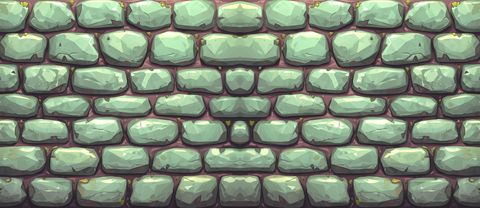
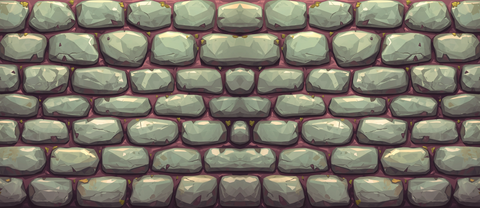
渔港Demo:夕阳定调+密集港镇楼群填天(基本无天空)+前景海结构+分层整图管线定论
- 弃用瓦片拼装管线,回归空城式分层整图(远/中/近整条+地标单件),文档/提示词包同步
- Demo:夕阳配色(落日橙/暮紫/藏青/暖沙棕),楼群剪影两排填满上半屏,楼缝漏霞+暮色亮窗
- 前景海:码头架水上(栈桥木桩/石墩插水),屏底整条海+摇晃渔船,缆桩剪影层撤销
- 石砖瓦片暖暮色版实铺防波堤(过渡用,正式素材走整图)

diff --git a/docs/prototypes/chapter3-port/port-demo.html b/docs/prototypes/chapter3-port/port-demo.html
@@ -7,7 +7,7 @@
 <style>
   html,body{margin:0;padding:0;background:#1a1626;height:100%;overflow:hidden;touch-action:none}
   #wrap{display:flex;align-items:center;justify-content:center;height:100%}
-  canvas{background:#79c8f0;max-height:100vh;max-width:100vw}
+  canvas{background:#2a2440;max-height:100vh;max-width:100vw}
   #tip{position:fixed;left:10px;top:8px;color:#9bb;font:12px/1.6 monospace;pointer-events:none;white-space:pre}
 </style>
 </head>
@@ -319,29 +319,43 @@ function draw(){
   g.save();
   if(shake>0)g.translate((Math.random()-0.5)*shake,(Math.random()-0.5)*shake);
   const sky=g.createLinearGradient(0,0,0,H);
-  sky.addColorStop(0,'#54b4ea');sky.addColorStop(0.5,'#8fd2f4');sky.addColorStop(0.78,'#cceefb');sky.addColorStop(1,'#8fd0ee');
+  sky.addColorStop(0,'#3b3454');sky.addColorStop(0.36,'#7a5a70');sky.addColorStop(0.52,'#e0956a');sky.addColorStop(1,'#9a5e52');
   g.fillStyle=sky;g.fillRect(0,0,W,H);
-  g.fillStyle='rgba(255,255,255,0.92)';for(const [cx3,cy3,r3] of [[W*0.2,H*0.24,54],[W*0.28,H*0.26,40],[W*0.7,H*0.34,60],[W*0.62,H*0.37,44]]){g.beginPath();g.arc(cx3-cam*0.04%W,cy3,r3,0,7);g.fill();}
-  g.fillStyle='#3f8fc0';g.fillRect(0,H*0.60,W,H*0.03);
+  g.fillStyle='rgba(255,190,140,0.5)';g.beginPath();g.arc(W*0.38,H*0.10,80,0,7);g.fill();g.fillStyle='rgba(255,214,150,0.85)';g.beginPath();g.arc(W*0.38,H*0.10,34,0,7);g.fill();
+  g.fillStyle='#5a4560';g.fillRect(0,H*0.50,W,H*0.03);
   // ── 远景层(0.1x):远岛+远灯塔剪影,颜色最淡(空气透视) ──
   {
     const k=cam*0.1;
-    g.fillStyle='rgba(150,190,220,0.55)';
-    for(let i=0;i<4;i++){const ix=((i*640-k)%(W+700))-200;
-      g.beginPath();g.moveTo(ix,H*0.60);g.quadraticCurveTo(ix+90,H*0.545,ix+200,H*0.60);g.fill();}
-    g.fillStyle='rgba(150,190,220,0.6)';
-    const lx=((900-k)%(W+700))-200;
-    g.fillRect(lx,H*0.53,14,H*0.07);g.fillRect(lx-6,H*0.53,26,6);
+    g.fillStyle='rgba(112,84,126,0.95)';
+    for(let i=0;i<8;i++){
+      const ix=((i*230-k)%(W+460))-230;
+      const ht=H*(0.08+((i*53)%5)*0.055);
+      g.fillRect(ix,ht,210,H*0.60-ht);
+      g.beginPath();g.moveTo(ix-10,ht);g.lineTo(ix+105,ht-H*0.045);g.lineTo(ix+220,ht);g.fill();
+    }
+    // 塔吊/水塔冒头(戳到屏顶)
+    for(let i=0;i<3;i++){const tx=((i*560+130-k)%(W+460))-230;
+      g.fillRect(tx,H*0.03,10,H*0.2);g.fillRect(tx-40,H*0.055,90,7);g.fillRect(tx+44,H*0.03,4,H*0.06);}
   }
   // ── 中景层(0.28x):连排屋顶+桅杆,稍深 ──
   {
     const k=cam*0.28;
-    g.fillStyle='rgba(90,130,170,0.8)';
-    for(let i=0;i<10;i++){const ix=((i*300-k)%(W+500))-200;
-      g.beginPath();g.moveTo(ix,H*0.615);g.lineTo(ix+60,H*0.575);g.lineTo(ix+120,H*0.615);g.fill();
-      g.fillRect(ix+16,H*0.615,88,H*0.02);}
-    g.fillStyle='rgba(66,100,140,0.9)';
-    for(let i=0;i<5;i++){const mx=((i*430-k*1.1)%(W+500))-160;g.fillRect(mx,H*0.52,5,H*0.11);g.fillRect(mx-18,H*0.555,42,4);}
+    for(let i=0;i<7;i++){
+      const ix=((i*300-k)%(W+600))-300;
+      const ht=H*(0.18+((i*71)%4)*0.065);
+      g.fillStyle='rgba(74,56,92,0.98)';
+      g.fillRect(ix,ht,250,H*0.63-ht);
+      g.beginPath();g.moveTo(ix-12,ht);g.lineTo(ix+125,ht-H*0.05);g.lineTo(ix+262,ht);g.fill();
+      // 暮色亮窗(按行列定,不随视差闪)
+      g.fillStyle='rgba(255,190,110,0.8)';
+      for(let r2=0;r2<5;r2++)for(let c2=0;c2<4;c2++){
+        if((i*7+r2*3+c2)%3)continue;
+        const wy2=ht+H*0.045+r2*H*0.075, wx2=ix+34+c2*58;
+        if(wy2<H*0.58)g.fillRect(wx2,wy2,15,20);
+      }
+    }
+    g.fillStyle='rgba(62,48,84,0.95)';
+    for(let i=0;i<5;i++){const mx=((i*430-k*1.1)%(W+500))-160;g.fillRect(mx,H*0.26,5,H*0.16);g.fillRect(mx-18,H*0.30,42,4);}
   }
   // 海鸥(中景,自己飞)
   {
@@ -355,14 +369,14 @@ function draw(){
   // ── 近背层(0.55x):矮栅栏+挂着的渔网,深色 ──
   {
     const k=cam*0.55;
-    g.strokeStyle='rgba(70,84,110,0.9)';g.lineWidth=5;
+    g.strokeStyle='rgba(48,38,66,0.9)';g.lineWidth=5;
     for(let i=0;i<14;i++){const ix=((i*220-k)%(W+400))-160;
-      g.beginPath();g.moveTo(ix,H*0.652);g.lineTo(ix,H*0.615);g.stroke();}
-    g.strokeStyle='rgba(70,84,110,0.55)';g.lineWidth=2.5;
+      g.beginPath();g.moveTo(ix,H*0.645);g.lineTo(ix,H*0.605);g.stroke();}
+    g.strokeStyle='rgba(48,38,66,0.55)';g.lineWidth=2.5;
     for(let i=0;i<5;i++){const ix=((i*620-k)%(W+700))-200;
-      g.beginPath();g.moveTo(ix,H*0.618);
-      g.quadraticCurveTo(ix+70,H*0.66,ix+140,H*0.618);g.stroke();
-      for(let m=1;m<4;m++){g.beginPath();g.moveTo(ix+m*35,H*0.62);g.quadraticCurveTo(ix+m*35,H*0.645,ix+70,H*0.655);g.stroke();}
+      g.beginPath();g.moveTo(ix,H*0.606);
+      g.quadraticCurveTo(ix+70,H*0.648,ix+140,H*0.606);g.stroke();
+      for(let m=1;m<4;m++){g.beginPath();g.moveTo(ix+m*35,H*0.608);g.quadraticCurveTo(ix+m*35,H*0.633,ix+70,H*0.643);g.stroke();}
     }
   }
   g.save();g.translate(-cam,0);
@@ -402,8 +416,8 @@ function draw(){
   }
 
   // ③ 水域
-  g.fillStyle='#1f7ba6';g.fillRect(MKT_END,WY,DOCK_END-MKT_END,WBOT-WY+20);
-  g.fillStyle='rgba(10,58,92,0.55)';g.fillRect(MKT_END,DEEP,DOCK_END-MKT_END,WBOT-DEEP+20);
+  g.fillStyle='#235a78';g.fillRect(MKT_END,WY,DOCK_END-MKT_END,WBOT-WY+20);
+  g.fillStyle='rgba(14,30,54,0.6)';g.fillRect(MKT_END,DEEP,DOCK_END-MKT_END,WBOT-DEEP+20);
   for(const pl of planks){g.strokeStyle='#4e3e30';g.lineWidth=10;
     g.beginPath();g.moveTo(pl.x0+16,pl.y);g.lineTo(pl.x0+16,WBOT);g.moveTo(pl.x1-16,pl.y);g.lineTo(pl.x1-16,WBOT);g.stroke();}
   for(const pl of planks){
@@ -501,15 +515,15 @@ function draw(){
   // ── 前景海(码头架在水上:村/市段 与 灯塔/堤段 的画面底部整条是海) ──
   for(const [wx0,wx1] of [[-200,MKT_END],[DOCK_END,SHIP_X+400]]){
     const WT=1168;
-    g.fillStyle='#1f7ba6';
+    g.fillStyle='#235a78';
     g.beginPath();g.moveTo(wx0,WT);
     for(let x=wx0;x<=wx1;x+=24)g.lineTo(x,WT+Math.sin(x*0.018+tGlobal*2.2)*7);
     g.lineTo(wx1,H+40);g.lineTo(wx0,H+40);g.fill();
-    g.strokeStyle='rgba(255,255,255,0.55)';g.lineWidth=3;
+    g.strokeStyle='rgba(255,196,140,0.6)';g.lineWidth=3;
     g.beginPath();for(let x=wx0;x<=wx1;x+=24)g.lineTo(x,WT+Math.sin(x*0.018+tGlobal*2.2)*7);g.stroke();
-    g.fillStyle='rgba(8,56,96,0.4)';g.fillRect(wx0,1225,wx1-wx0,H-1225+40);
+    g.fillStyle='rgba(8,22,44,0.45)';g.fillRect(wx0,1225,wx1-wx0,H-1225+40);
     // 波光
-    g.strokeStyle='rgba(255,255,255,0.25)';g.lineWidth=2;
+    g.strokeStyle='rgba(255,190,130,0.32)';g.lineWidth=2;
     for(let x=wx0+40;x<wx1;x+=160){const yy=1195+Math.sin(x*0.05+tGlobal*1.7)*6;
       g.beginPath();g.moveTo(x,yy);g.lineTo(x+56,yy);g.stroke();}
   }
@@ -631,13 +645,13 @@ function draw(){
 
   // 水面覆盖
   {
-    g.fillStyle='rgba(70,180,215,0.4)';
+    g.fillStyle='rgba(80,120,160,0.38)';
     g.beginPath();g.moveTo(MKT_END,WY+10);
     for(let x=MKT_END;x<=DOCK_END;x+=20)g.lineTo(x,WY+Math.sin(x*0.02+tGlobal*2.4)*6);
     g.lineTo(DOCK_END,WBOT+20);g.lineTo(MKT_END,WBOT+20);g.fill();
-    g.strokeStyle='rgba(220,240,255,0.5)';g.lineWidth=3;
+    g.strokeStyle='rgba(255,214,170,0.5)';g.lineWidth=3;
     g.beginPath();for(let x=MKT_END;x<=DOCK_END;x+=20)g.lineTo(x,WY+Math.sin(x*0.02+tGlobal*2.4)*6);g.stroke();
-    g.fillStyle='rgba(8,56,96,0.35)';g.fillRect(MKT_END,DEEP,DOCK_END-MKT_END,WBOT-DEEP+20);
+    g.fillStyle='rgba(8,22,44,0.35)';g.fillRect(MKT_END,DEEP,DOCK_END-MKT_END,WBOT-DEEP+20);
   }
   for(const p of parts){g.globalAlpha=1-p.life/p.max;g.fillStyle=p.col;g.fillRect(p.x-3,p.y-3,6,6);}
   g.globalAlpha=1;
@@ -646,17 +660,17 @@ function draw(){
   // ── 飘雾两层(0.85x 淡 / 1.15x 更淡更快):空气流动感 ──
   for(const [spd,al,yy,hh] of [[0.85,0.07,H*0.68,90],[1.15,0.05,H*0.80,120]]){
     const k=(cam*spd+tGlobal*18*spd)%(W+600);
-    g.fillStyle=`rgba(196,204,226,${al})`;
+    g.fillStyle=`rgba(210,180,200,${al})`;
     for(let i=0;i<3;i++){const fx2=((i*520-k)%(W+600))-260;
       g.beginPath();g.ellipse(fx2,yy+Math.sin(tGlobal+i)*8,240,hh*0.5,0,0,7);g.fill();}
   }
   // ── 暗角(上下压边,视线聚焦游戏层) ──
   {
     let gr=g.createLinearGradient(0,0,0,150);
-    gr.addColorStop(0,'rgba(30,70,100,0.30)');gr.addColorStop(1,'rgba(14,10,26,0)');
+    gr.addColorStop(0,'rgba(24,16,40,0.45)');gr.addColorStop(1,'rgba(14,10,26,0)');
     g.fillStyle=gr;g.fillRect(0,0,W,150);
     gr=g.createLinearGradient(0,H-170,0,H);
-    gr.addColorStop(0,'rgba(14,10,26,0)');gr.addColorStop(1,'rgba(30,70,100,0.4)');
+    gr.addColorStop(0,'rgba(14,10,26,0)');gr.addColorStop(1,'rgba(24,16,40,0.55)');
     g.fillStyle=gr;g.fillRect(0,H-170,W,170);
   }
 

diff --git a/docs/第三章-渔港设计.md b/docs/第三章-渔港设计.md
@@ -88,16 +88,17 @@
 - 神龛:渔村街尾放本作第一座小神龛(金币→祝福教学点)
 - 珍珠:深水限定收集品,高价金币——氧气换钱的风险回报
 
-## 八、素材账
+## 八、素材账(分层整图模式,同空城)
 
-**瓦片复用**:木板(栈道/渔屋/晒鱼架)、石砖(防波堤/灯塔)
-**代码画**:水面(波纹/反光/浪,星屑粒子那套手感)、气泡、光圈变暗
-**需新出**(带风格锚,尺寸后定):
+**代码画**:前景海(浪/波光/摇船)、游泳水域、气泡、飘雾、光圈变暗、云
+**分层整图**(横向无缝,夕阳四色盘:落日橙/暮紫/藏青/暖沙棕):
 
-1. 渔村远景 1 张(海平线+桅杆剪影,9:16 左右无缝)
-2. 灯塔+亮灯的船(地标各 1 张)
-3. 水鬼 / 螃蟹兵 / 河豚精 / 电鳗(怪 4 张)
-4. 巨蟹将军(Boss,分体:身/大钳可独立摆动)
+1. **远景条**:海平线+远岛+远港剪影(颜色最淡)
+2. **中景条**:港镇建筑排(红蓝仓库/条纹灯塔/鱼摊雨棚/桅杆旗子)
+3. **玩法层地面条**:木栈桥整条(桥面+桥下木桩,左右无缝)
+
+**地标单件**(透明PNG):灯塔(挡路爬塔用,高个)、沉船(翻扣壳)、亮灯的船(终点)
+**怪**:水鬼 / 螃蟹兵 / 河豚精 / 电鳗 4 张 + 巨蟹将军(Boss,分体:身/大钳独立摆动)
 
 ## 九、实装计划(新场景 Chapter3Port.ts)
 